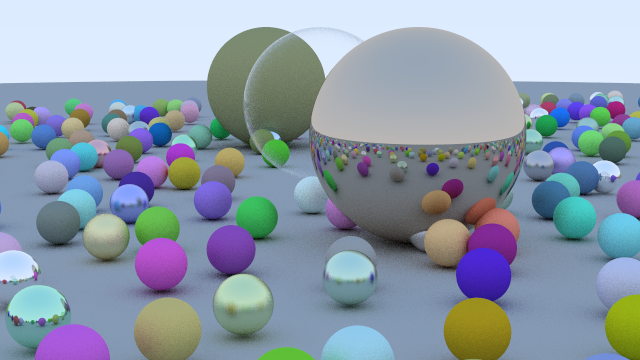
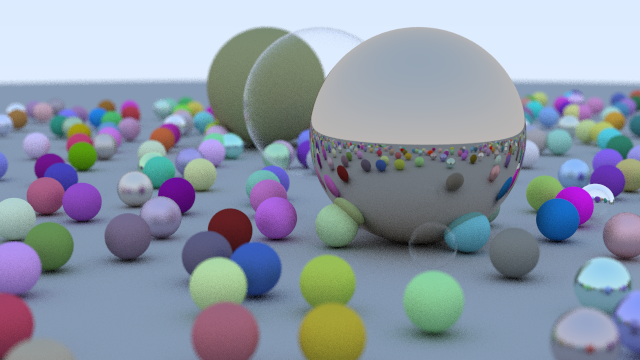
Add depth of field

diff --git a/src/core/camera.rs b/src/core/camera.rs
@@ -5,7 +5,9 @@ pub struct Camera {
     lower_left_corner: Vec3,
     horizontal_offset: Vec3,
     vertical_offset: Vec3,
-    origin: Vec3
+    origin: Vec3,
+    lens_radius: f32,
+    ortho: [Vec3; 3]
 }
 
 impl Camera {
@@ -15,8 +17,12 @@ impl Camera {
         look_at: Vec3,
         view_up: Vec3,
         fov: f32,
-        aspect: f32
+        aspect: f32,
+        aperture: f32,
+        focus_distance: f32
     ) -> Camera {
+        let lens_radius = aperture / 2.0;
+
         // Convert to radians
         let theta = fov * ::std::f32::consts::PI / 180.0;
         let half_height = (theta / 2.0).tan();
@@ -28,17 +34,32 @@ impl Camera {
         let v = w.cross(&u);
 
         Camera {
-            lower_left_corner: look_from - half_width * u - half_height * v - w,
-            horizontal_offset: 2.0 * half_width * u,
-            vertical_offset: 2.0 * half_height * v,
-            origin: look_from
+            lower_left_corner: look_from - half_width * u * focus_distance - half_height * v * focus_distance - w * focus_distance,
+            horizontal_offset: 2.0 * half_width * u * focus_distance,
+            vertical_offset: 2.0 * half_height * v * focus_distance,
+            origin: look_from,
+            ortho: [w, u ,v],
+            lens_radius
         }
     }
 
-    pub fn cast_ray(&self, u: f32, v: f32) -> Ray {
+    pub fn cast_ray(&self, s: f32, t: f32) -> Ray {
+        let random_point = self.lens_radius * random_point_in_unit_disk();
+        let offset = self.ortho[1] * random_point.x + self.ortho[2] * random_point.y;
+
         Ray::new(
-            self.origin,
-            self.lower_left_corner + u * self.horizontal_offset + v * self.vertical_offset - self.origin
+            self.origin + offset,
+            self.lower_left_corner + s * self.horizontal_offset + t * self.vertical_offset - self.origin - offset
         )
+    }
+}
+
+fn random_point_in_unit_disk() -> Vec3 {
+    loop {
+        let p = 2.0 * Vec3::new(rand::random(), rand::random(), 0.0) - Vec3::new(1.0, 1.0, 0.0);
+
+        if p.dot(&p) < 1.0 {
+            return p
+        }
     }
 }

diff --git a/src/main.rs b/src/main.rs
@@ -132,7 +132,9 @@ fn main() {
         Vec3::new(0.0, 0.0, 0.0),
         Vec3::new(0.0, 1.0, 0.0),
         20.0,
-        (WIDTH as f32) / (HEIGHT as f32)
+        (WIDTH as f32) / (HEIGHT as f32),
+        0.1,
+        10.0
     );
 
     // Create scene
